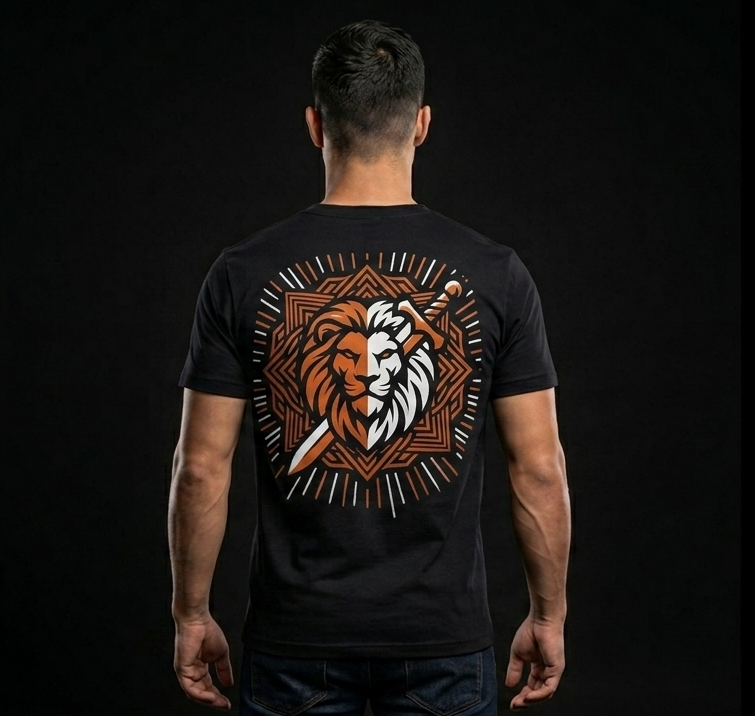
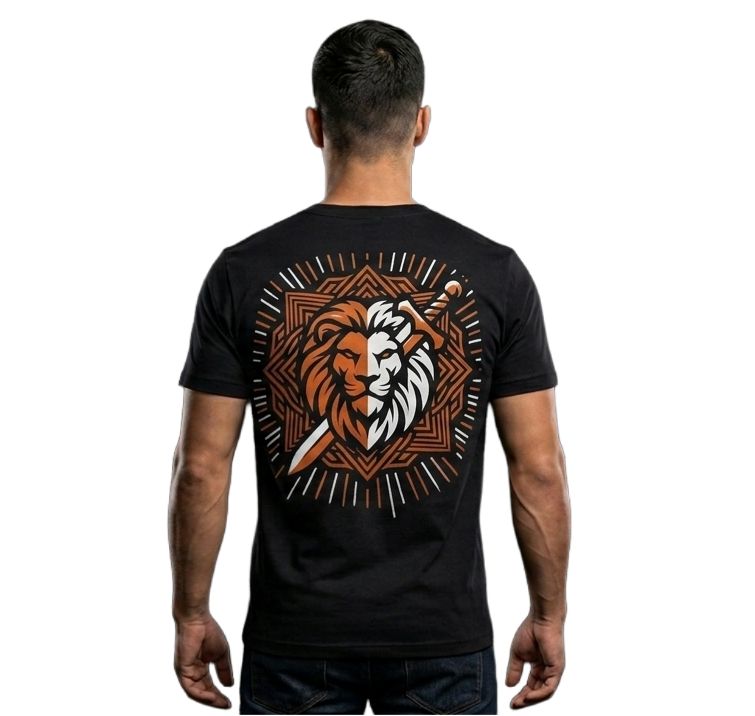
Fix hero image: remove float animation, responsive sizing, proper centering

diff --git a/css/style.css b/css/style.css
@@ -233,11 +233,16 @@ font-size:13px !important;
 .hero-image{
     flex:1;
     text-align:right;
+    display:flex;
+    align-items:center;
+    justify-content:flex-end;
 }
 
 .hero-image img{
-    max-width:550px;
-    margin-left:auto;
+    max-width:520px;
+    width:100%;
+    height:auto;
+    object-fit:contain;
 }
 
 /* ===========================
@@ -601,8 +606,12 @@ font-size:13px !important;
     text-align:center;
 }
 
+.hero-image{
+    justify-content:center;
+}
 .hero-image img{
     margin:auto;
+    max-width:400px;
 }
 
 .features-grid{
@@ -1763,16 +1772,19 @@ transform:translateX(-100%);
 }
 
 .hero-image {
-  animation: float 6s ease-in-out infinite;
+  animation: fadeInUp 0.9s ease 0.3s both;
 }
 
 .hero-image img {
-  filter: drop-shadow(0 25px 50px rgba(255, 122, 0, 0.2));
-  transition: filter 0.5s;
+  max-width: 100%;
+  height: auto;
+  filter: drop-shadow(0 20px 40px rgba(255, 122, 0, 0.25));
+  transition: transform 0.5s cubic-bezier(0.34, 1.56, 0.64, 1), filter 0.5s;
 }
 
 .hero-image img:hover {
-  filter: drop-shadow(0 30px 60px rgba(255, 122, 0, 0.35));
+  transform: scale(1.04);
+  filter: drop-shadow(0 30px 60px rgba(255, 122, 0, 0.4));
 }
 
 /* ===========================
@@ -2066,7 +2078,12 @@ transform:translateX(-100%);
     font-size: 28px;
   }
   .hero-image {
-    animation: none;
+    text-align: center;
+    margin-top: 20px;
+  }
+  .hero-image img {
+    max-width: 80%;
+    margin: 0 auto;
   }
   .product-card {
     transition: transform 0.3s, box-shadow 0.3s;
@@ -2079,6 +2096,9 @@ transform:translateX(-100%);
 @media (max-width: 480px) {
   .hero-content h1 {
     font-size: 32px !important;
+  }
+  .hero-image img {
+    max-width: 75%;
   }
   .section-title h2 {
     font-size: 24px;